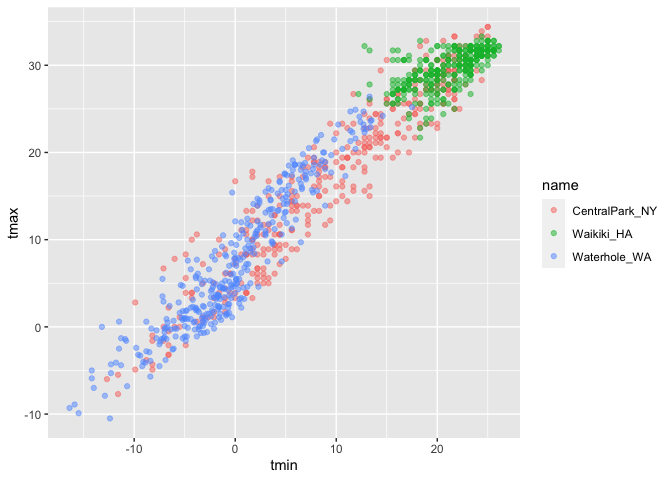
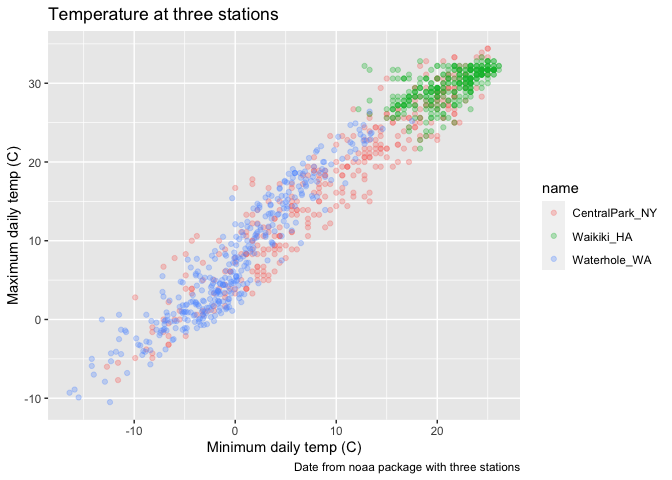
data in geoms

diff --git a/viz_and_eda_2.md b/viz_and_eda_2.md
@@ -3,6 +3,10 @@ viz\_eda\_2
 Kaila Boyer
 10/7/2021
 
+Can include code in the beginning of a document that sets the
+themes/settings/color for all ggplots (look at lecture page on website
+for code)
+
 Loading in dataset
 
 ``` r
@@ -49,10 +53,256 @@ tmax vs. tmin
 
 ``` r
 weather_df %>% 
-  ggplot(aes(x = tmin, y = tmax)) + 
-  geom_point(aes(color = name), alpha = .5)
+  ggplot(aes(x = tmin, y = tmax, color = name)) + 
+  geom_point(alpha = .3) + 
+  labs( 
+    title = "Temperature at three stations", 
+    x = "Minimum daily temp (C)", 
+    y = "Maximum daily temp (C)", 
+    caption = "Date from noaa package with three stations")
 ```
 
     ## Warning: Removed 15 rows containing missing values (geom_point).
 
 ![](viz_and_eda_2_files/figure-gfm/unnamed-chunk-3-1.png)<!-- -->
+
+## Scales
+
+``` r
+weather_df %>% 
+  ggplot(aes(x = tmin, y = tmax, color = name)) + 
+  geom_point(alpha = .3) + 
+  labs( 
+    title = "Temperature at three stations", 
+    x = "Minimum daily temp (C)", 
+    y = "Maximum daily temp (C)", 
+    caption = "Date from noaa package with three stations") + 
+  scale_x_continuous(
+    breaks = c(-15, 0, 15), 
+    labels = c("-15 C", "0", "15 C")
+  ) + 
+  scale_y_continuous(
+    trans = "sqrt", 
+    position = "right"
+  )
+```
+
+    ## Warning in self$trans$transform(x): NaNs produced
+
+    ## Warning: Transformation introduced infinite values in continuous y-axis
+
+    ## Warning: Removed 90 rows containing missing values (geom_point).
+
+![](viz_and_eda_2_files/figure-gfm/unnamed-chunk-4-1.png)<!-- -->
+
+## Color Scales
+
+``` r
+weather_df %>% 
+  ggplot(aes(x = tmin, y = tmax, color = name)) + 
+  geom_point(alpha = .3) + 
+  labs( 
+    title = "Temperature at three stations", 
+    x = "Minimum daily temp (C)", 
+    y = "Maximum daily temp (C)", 
+    caption = "Data from noaa package with three stations") + 
+  scale_x_continuous(
+    breaks = c(-15, 0, 15), 
+    labels = c("-15 C", "0", "15 C")
+  ) + 
+  scale_y_continuous(
+    trans = "sqrt", 
+    position = "right"
+  ) + 
+  scale_color_hue(
+    name = "Location", 
+    h = c(100,300))
+```
+
+    ## Warning in self$trans$transform(x): NaNs produced
+
+    ## Warning: Transformation introduced infinite values in continuous y-axis
+
+    ## Warning: Removed 90 rows containing missing values (geom_point).
+
+![](viz_and_eda_2_files/figure-gfm/unnamed-chunk-5-1.png)<!-- -->
+
+``` r
+weather_df %>% 
+  ggplot(aes(x = tmin, y = tmax, color = name)) + 
+  geom_point(alpha = .3) + 
+  labs( 
+    title = "Temperature at three stations", 
+    x = "Minimum daily temp (C)", 
+    y = "Maximum daily temp (C)", 
+    caption = "Data from noaa package with three stations") + 
+  scale_x_continuous(
+    breaks = c(-15, 0, 15), 
+    labels = c("-15 C", "0", "15 C")
+  ) + 
+  scale_y_continuous(
+    trans = "sqrt", 
+    position = "right"
+  ) + 
+  scale_color_hue(
+    name = "Location") +
+  scale_color_viridis_d()
+```
+
+    ## Scale for 'colour' is already present. Adding another scale for 'colour',
+    ## which will replace the existing scale.
+
+    ## Warning in self$trans$transform(x): NaNs produced
+
+    ## Warning: Transformation introduced infinite values in continuous y-axis
+
+    ## Warning: Removed 90 rows containing missing values (geom_point).
+
+![](viz_and_eda_2_files/figure-gfm/unnamed-chunk-5-2.png)<!-- -->
+
+## Themes
+
+``` r
+weather_df %>% 
+  ggplot(aes(x = tmin, y = tmax, color = name)) + 
+  geom_point(alpha = .3) + 
+  labs( 
+    title = "Temperature at three stations", 
+    x = "Minimum daily temp (C)", 
+    y = "Maximum daily temp (C)", 
+    caption = "Data from noaa package with three stations") + 
+  scale_x_continuous(
+    breaks = c(-15, 0, 15), 
+    labels = c("-15 C", "0", "15 C")
+  ) + 
+  scale_y_continuous(
+    trans = "sqrt", 
+    position = "right"
+  ) + 
+  scale_color_hue(
+    name = "Location", 
+    h = c(100,300)) + 
+  scale_color_viridis_d() +
+  theme_bw() +
+  theme(legend.position = "bottom") 
+```
+
+    ## Scale for 'colour' is already present. Adding another scale for 'colour',
+    ## which will replace the existing scale.
+
+    ## Warning in self$trans$transform(x): NaNs produced
+
+    ## Warning: Transformation introduced infinite values in continuous y-axis
+
+    ## Warning: Removed 90 rows containing missing values (geom_point).
+
+![](viz_and_eda_2_files/figure-gfm/unnamed-chunk-6-1.png)<!-- -->
+
+``` r
+weather_df %>% 
+  ggplot(aes(x = tmin, y = tmax, color = name)) + 
+  geom_point(alpha = .3) + 
+  labs( 
+    title = "Temperature at three stations", 
+    x = "Minimum daily temp (C)", 
+    y = "Maximum daily temp (C)", 
+    caption = "Data from noaa package with three stations") + 
+  scale_x_continuous(
+    breaks = c(-15, 0, 15), 
+    labels = c("-15 C", "0", "15 C")
+  ) + 
+  scale_y_continuous(
+    trans = "sqrt", 
+    position = "right"
+  ) + 
+  scale_color_hue(
+    name = "Location", 
+    h = c(100,300)) + 
+  scale_color_viridis_d() +
+  theme_classic() +
+  theme(legend.position = "bottom") 
+```
+
+    ## Scale for 'colour' is already present. Adding another scale for 'colour',
+    ## which will replace the existing scale.
+
+    ## Warning in self$trans$transform(x): NaNs produced
+
+    ## Warning: Transformation introduced infinite values in continuous y-axis
+
+    ## Warning: Removed 90 rows containing missing values (geom_point).
+
+![](viz_and_eda_2_files/figure-gfm/unnamed-chunk-6-2.png)<!-- -->
+
+``` r
+weather_df %>% 
+  ggplot(aes(x = tmin, y = tmax, color = name)) + 
+  geom_point(alpha = .3) + 
+  labs( 
+    title = "Temperature at three stations", 
+    x = "Minimum daily temp (C)", 
+    y = "Maximum daily temp (C)", 
+    caption = "Data from noaa package with three stations" 
+    ) + 
+  scale_x_continuous(
+    breaks = c(-15, 0, 15), 
+    labels = c("-15 C", "0", "15 C")
+  ) + 
+  scale_y_continuous(
+    trans = "sqrt", 
+    position = "right"
+  ) + 
+  scale_color_hue(
+    name = "Location", 
+    h = c(100,300)) + 
+  scale_color_viridis_d() +
+  theme_minimal() +
+  theme(legend.position = "bottom") 
+```
+
+    ## Scale for 'colour' is already present. Adding another scale for 'colour',
+    ## which will replace the existing scale.
+
+    ## Warning in self$trans$transform(x): NaNs produced
+
+    ## Warning: Transformation introduced infinite values in continuous y-axis
+
+    ## Warning: Removed 90 rows containing missing values (geom_point).
+
+![](viz_and_eda_2_files/figure-gfm/unnamed-chunk-6-3.png)<!-- -->
+
+## ‘data’ in geoms
+
+``` r
+weather_df %>% 
+  ggplot(aes(x = date, y = tmax, color = name)) + 
+  geom_point()
+```
+
+    ## Warning: Removed 3 rows containing missing values (geom_point).
+
+![](viz_and_eda_2_files/figure-gfm/unnamed-chunk-7-1.png)<!-- -->
+
+``` r
+central_park <- weather_df %>% filter(name == "CentralPark_NY")
+
+waikiki <- weather_df %>%  filter(name == "Waikiki_HA")
+
+waikiki %>% ggplot(aes(x = date, y = tmax, color = name)) + 
+  geom_point()
+```
+
+    ## Warning: Removed 3 rows containing missing values (geom_point).
+
+![](viz_and_eda_2_files/figure-gfm/unnamed-chunk-7-2.png)<!-- -->
+
+``` r
+waikiki %>% 
+  ggplot(aes(x = date, y = tmax, color = name)) + 
+  geom_point() + 
+  geom_line(data = central_park)
+```
+
+    ## Warning: Removed 3 rows containing missing values (geom_point).
+
+![](viz_and_eda_2_files/figure-gfm/unnamed-chunk-7-3.png)<!-- -->
